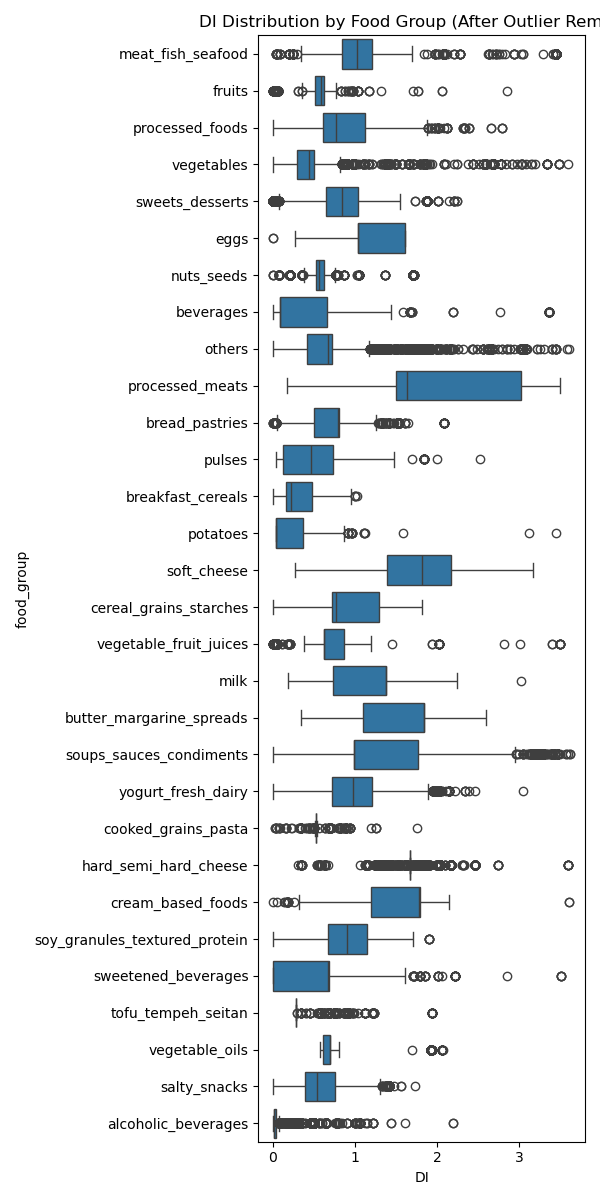
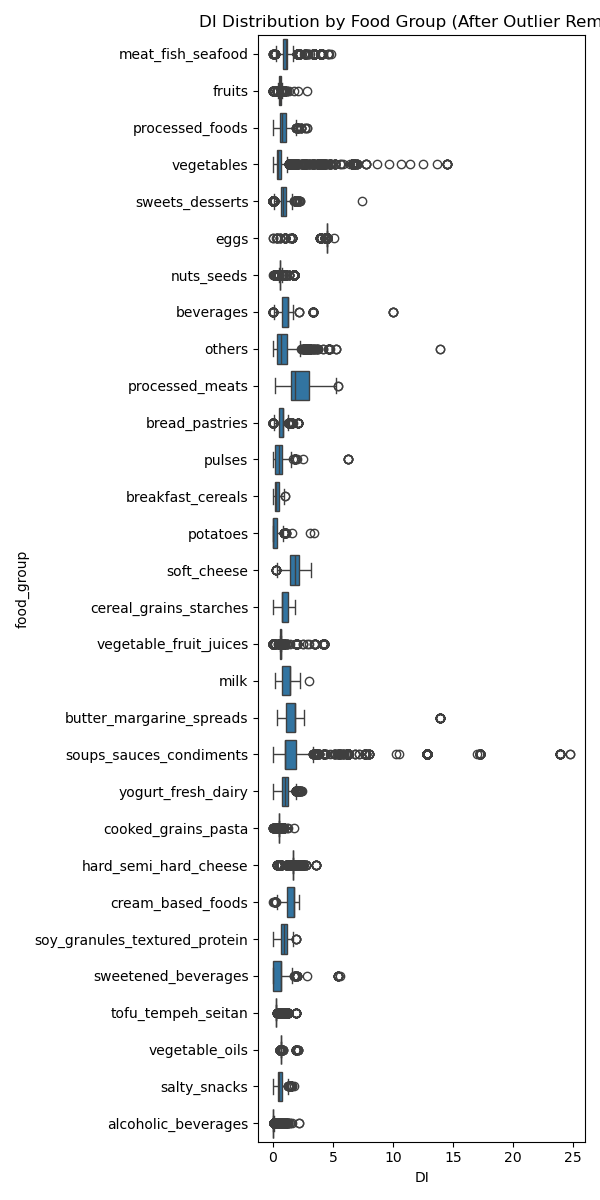
tolerable upper intake level

diff --git a/scripts/config.py b/scripts/config.py
@@ -43,32 +43,32 @@ conversion_factors = {
 }
 
 nutrient_info = {
-    'folate_eaten':                                         {'unit': 'mcg', 'target': 400,  'type': 'qualifying'},
-    'niacin_eaten':                                         {'unit': 'mg',  'target': 14,   'type': 'qualifying'},
-    'pantothenic_acid_eaten':                               {'unit': 'mg',  'target': 5,    'type': 'qualifying'},
-    'vitamin_b2_eaten':                                     {'unit': 'mg',  'target': 1.1,  'type': 'qualifying'},
-    'vitamin_b1_eaten':                                     {'unit': 'mg',  'target': 1.2,  'type': 'qualifying'},
-    'all_trans_retinol_equivalents_activity_eaten':         {'unit': 'IU', 'target': 700,  'type': 'qualifying'},
-    'vitamin_b12_eaten':                                    {'unit': 'mcg', 'target': 2.4,  'type': 'qualifying'},
-    'vitamin_b6_eaten':                                     {'unit': 'mg',  'target': 1.3,  'type': 'qualifying'},
-    'vitamin_c_eaten':                                      {'unit': 'mg',  'target': 75,   'type': 'qualifying'},
-    'vitamin_d_eaten':                                      {'unit': 'mcg', 'target': 7.5,  'type': 'qualifying'},
-    'vitamin_e_activity_eaten':                             {'unit': 'TAE', 'target': 15,    'type': 'qualifying'},
-    'calcium_eaten':                                        {'unit': 'mg',  'target': 1000, 'type': 'qualifying'},
-    'iron_eaten':                                           {'unit': 'mg',  'target': 18,   'type': 'qualifying'},
-    'magnesium_eaten':                                      {'unit': 'mg',  'target': 320,  'type': 'qualifying'},
-    'phosphorus_eaten':                                     {'unit': 'mg',  'target': 700,  'type': 'qualifying'},
-    'potassium_eaten':                                      {'unit': 'mg',  'target': 4700, 'type': 'qualifying'},
-    'zinc_eaten':                                           {'unit': 'mg',  'target': 8,    'type': 'qualifying'},
-    'fiber_eaten':                                          {'unit': 'g',   'target': 25,   'type': 'qualifying'},
-    'protein_eaten':                                        {'unit': 'g',   'target': 46,   'type': 'qualifying'},
-    'water_eaten':                                          {'unit': 'g',   'target' : 2700, 'type' : 'qualifying'}, 
-    'fat_eaten':                                            {'unit': 'g',   'target': 78,   'type': 'disqualifying'},
-    'fatty_acids_saturated_eaten':                          {'unit': 'g',   'target': 22,   'type': 'disqualifying'},
-    'cholesterol_eaten':                                    {'unit': 'mg',  'target': 300,  'type': 'disqualifying'},
-    'sugar_eaten':                                          {'unit': 'g',   'target': 125,  'type': 'disqualifying'},
-    'sodium_eaten':                                         {'unit': 'mg',  'target': 2400, 'type': 'disqualifying'},
-    'salt_eaten' :                                          {'unit' : 'g',  'target': 6,   'type': 'disqualifying'}
+    'folate_eaten':                                         {'unit': 'mcg', 'target': 400,   'UL' : 1000,  'type': 'qualifying'},
+    'niacin_eaten':                                         {'unit': 'mg',  'target': 14,    'UL' : 900,   'type': 'qualifying'},
+    'pantothenic_acid_eaten':                               {'unit': 'mg',  'target': 5,     'UL' : None,  'type': 'qualifying'},
+    'vitamin_b2_eaten':                                     {'unit': 'mg',  'target': 1.1,   'UL' : None,  'type': 'qualifying'},
+    'vitamin_b1_eaten':                                     {'unit': 'mg',  'target': 1.2,   'UL' : None,  'type': 'qualifying'},
+    'all_trans_retinol_equivalents_activity_eaten':         {'unit': 'IU', 'target': 700,    'UL' : 3000,  'type': 'qualifying'},
+    'vitamin_b12_eaten':                                    {'unit': 'mcg', 'target': 2.4,   'UL' : None,  'type': 'qualifying'},
+    'vitamin_b6_eaten':                                     {'unit': 'mg',  'target': 1.3,   'UL' : 12,    'type': 'qualifying'},
+    'vitamin_c_eaten':                                      {'unit': 'mg',  'target': 75,    'UL' : None,  'type': 'qualifying'},
+    'vitamin_d_eaten':                                      {'unit': 'mcg', 'target': 7.5,   'UL' : 100,   'type': 'qualifying'},
+    'vitamin_e_activity_eaten':                             {'unit': 'TAE', 'target': 15,    'UL' : 300,   'type': 'qualifying'},
+    'calcium_eaten':                                        {'unit': 'mg',  'target': 1000,  'UL' : 2500,  'type': 'qualifying'},
+    'iron_eaten':                                           {'unit': 'mg',  'target': 18,    'UL' : 40,    'type': 'qualifying'},
+    'magnesium_eaten':                                      {'unit': 'mg',  'target': 320,   'UL' : 250,   'type': 'qualifying'},
+    'phosphorus_eaten':                                     {'unit': 'mg',  'target': 700,   'UL' : None,  'type': 'qualifying'},
+    'potassium_eaten':                                      {'unit': 'mg',  'target': 4700,  'UL' : None,  'type': 'qualifying'},
+    'zinc_eaten':                                           {'unit': 'mg',  'target': 8,     'UL' : 25,    'type': 'qualifying'},
+    'fiber_eaten':                                          {'unit': 'g',   'target': 25,    'UL' : None,  'type': 'qualifying'},
+    'protein_eaten':                                        {'unit': 'g',   'target': 46,    'UL' : None,  'type': 'qualifying'},
+    'water_eaten':                                          {'unit': 'g',   'target' : 2700, 'UL' : None,  'type' : 'qualifying'}, 
+    'fat_eaten':                                            {'unit': 'g',   'target': 78,    'UL' : None,  'type': 'disqualifying'},
+    'fatty_acids_saturated_eaten':                          {'unit': 'g',   'target': 22,    'UL' : None,  'type': 'disqualifying'},
+    'cholesterol_eaten':                                    {'unit': 'mg',  'target': 300,   'UL' : 300,   'type': 'disqualifying'},
+    'sugar_eaten':                                          {'unit': 'g',   'target': 125,   'UL' : None,  'type': 'disqualifying'},
+    'sodium_eaten':                                         {'unit': 'mg',  'target': 2400,  'UL' : 2400,  'type': 'disqualifying'},
+    'salt_eaten' :                                          {'unit' : 'g',  'target': 6,     'UL' : 6,     'type': 'disqualifying'}
 }
 
 nutrient_choice = ['folate_eaten', 

diff --git a/scripts/functions.py b/scripts/functions.py
@@ -73,6 +73,40 @@ def compute_nb(row, nutrient_cols, scaling_factor=2000) :
     return nb_value
 
 
+def filter_implausible_nutrients(df, nutrient_info, conversion_factors):
+    """
+    Remove any rows from df where, for at least one nutrient in nutrient_info,
+    the eaten amount (converted to the DRI units) exceeds its DRI target.
+    
+    Parameters
+    ----------
+    df : pd.DataFrame
+    nutrient_info : dict
+    conversion_factors : dict
+    
+    Returns
+    -------
+    pd.DataFrame
+    """
+    mask = pd.Series(True, index=df.index)       
+
+    for nutr, info in nutrient_info.items():
+        col = nutr                             
+        if col not in df.columns:
+            # skup if not inside the DataFrame
+            continue
+
+        unit = info['unit']
+        target = info['target']
+        factor = conversion_factors[unit]
+
+        converted = df[col] * factor              
+        
+        mask &= (converted <= target) | converted.isna()
+
+    return df[mask]
+
+
 def compute_qi_excluding(row, nutrient_list, exclude=None, scaling_factor=2000):
     """
     Compute QI after dropping one nutrient from nutrient_list
